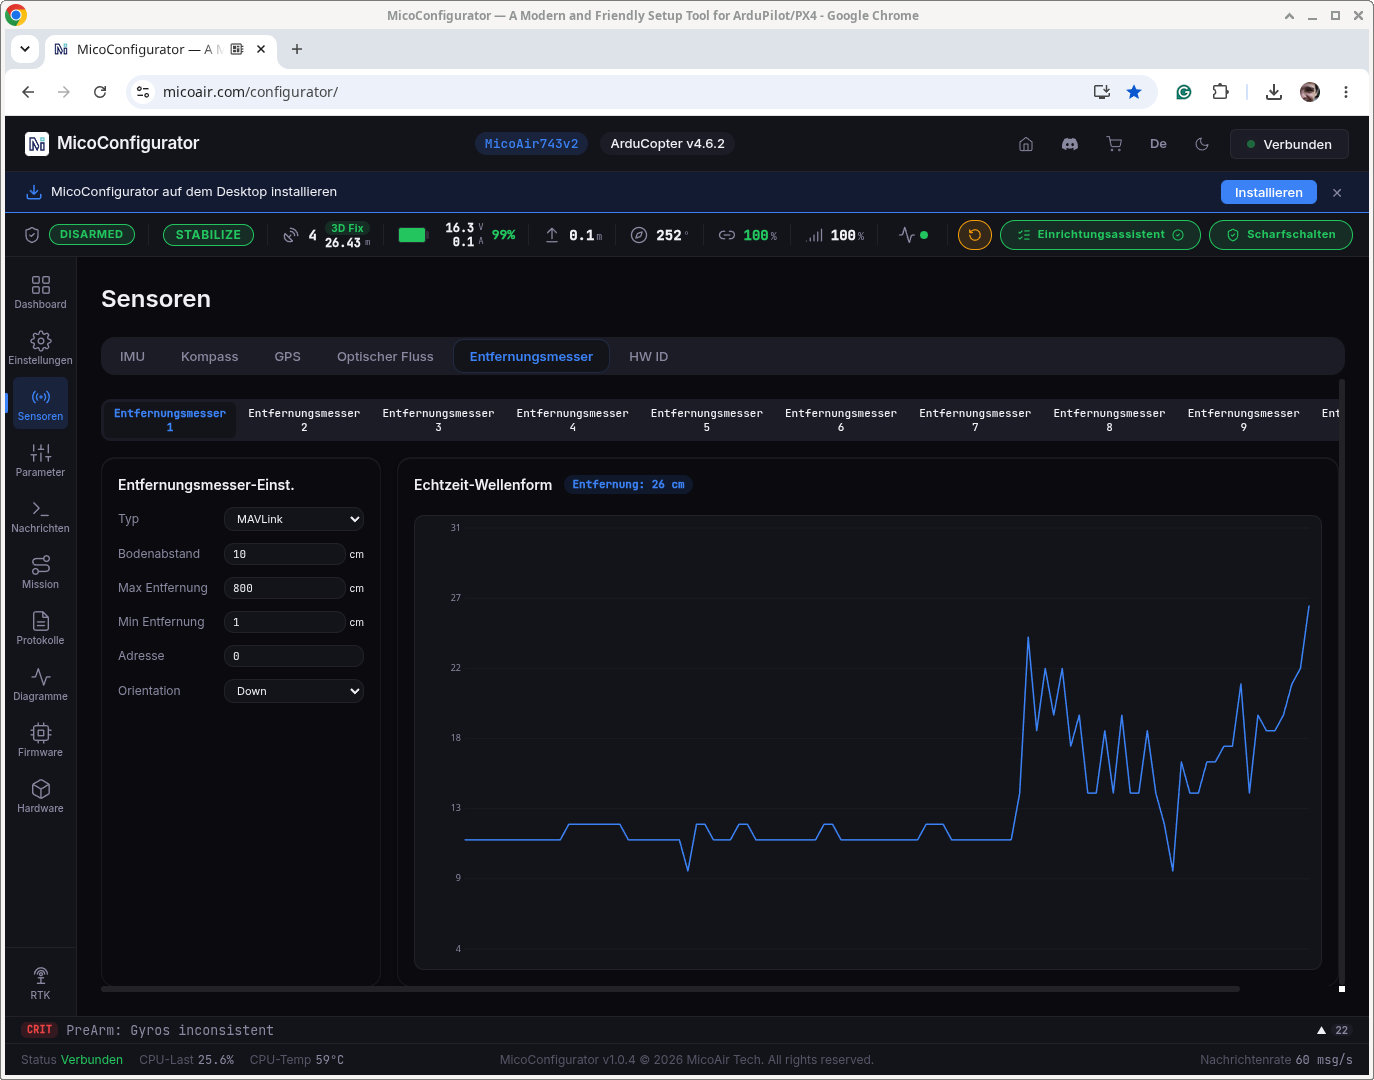
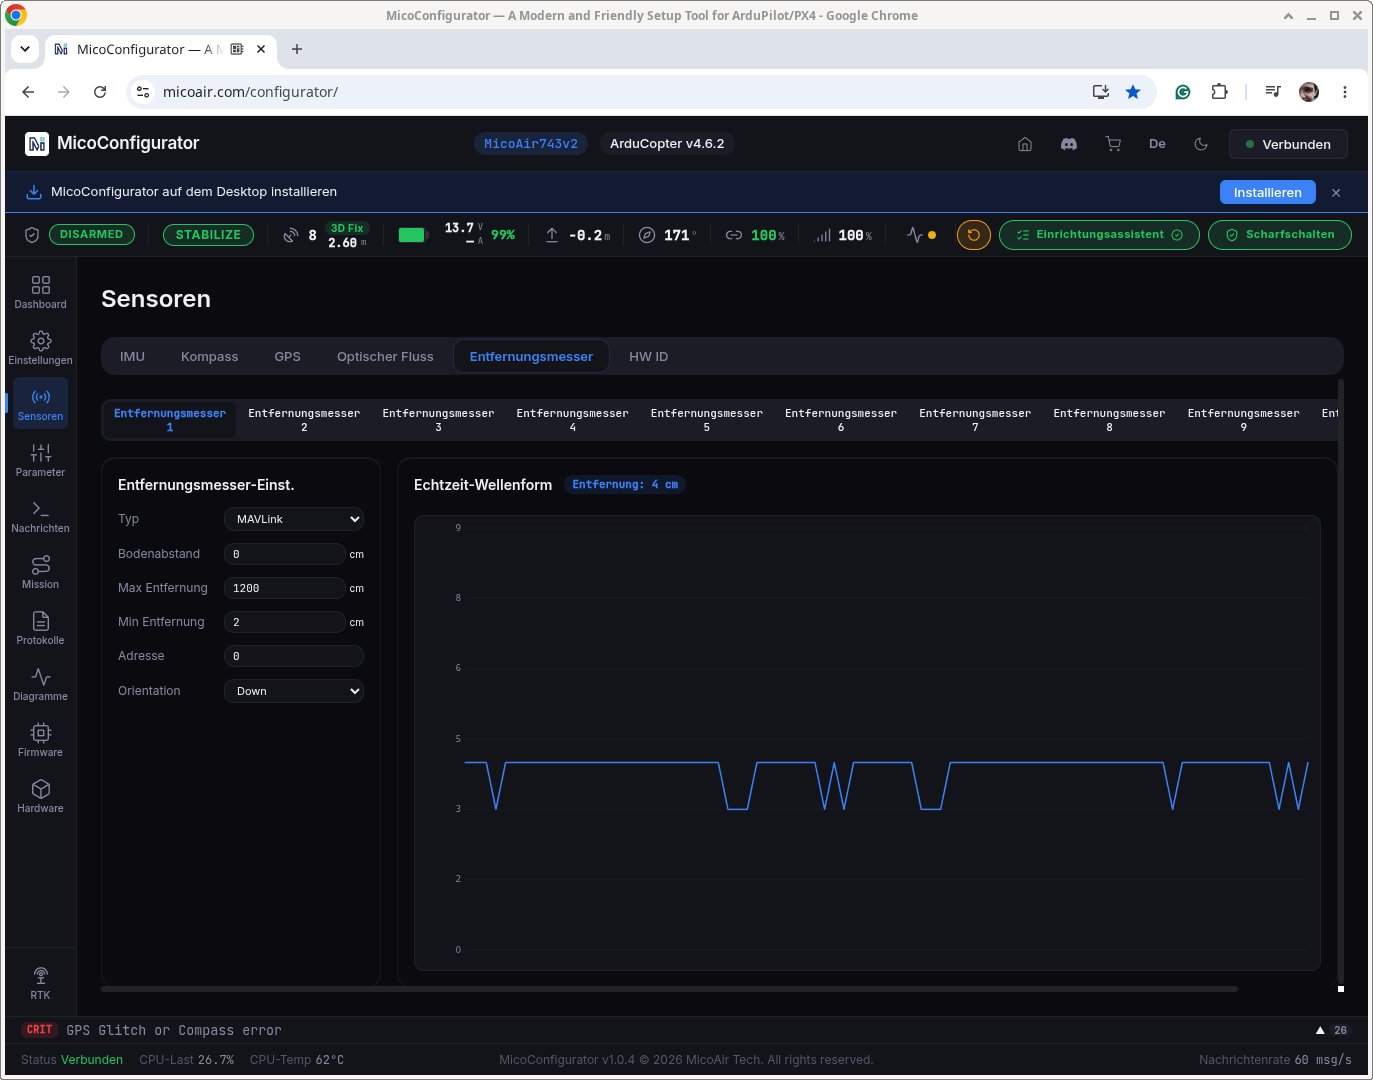
Neuer Eintrag.

diff --git a/Master_Projekt_WS2627/index.html b/Master_Projekt_WS2627/index.html
@@ -342,7 +342,7 @@ Bilder TBD
 <li><b>VTX-Antenne:</b> Foxeer Lollipop V4 Stubby 5,8 GHz RHCP SMA</li>
 <li><b>Motoren:</b> <a href="https://iflight-rc.eu/products/xing2-2809-fpv-motor">iFlight XING2 2809 1250KV</a> 4-6S (<a href="Dokumente/xing2-2809-fpv-motor-890516.png">Spezifikation</a>)</li>
 <li><b>Propeller:</b> <a href="https://www.gemfanhobby.com/6038-hurricane-pc-4-blade.html">Gemfan Hurricane 6038-4</a> 6-Zoll 4-Blatt Propeller (<a href="Dokumente/2025-Gemfan-Product-Catalog.pdf">Informationen</a>)</li>
-<li><b>GPS:</b> HGLRC M100-5883 mit Kompass (<a href="Dokumente/HGLRC_M100_5883_GPS.pdf">Handbuch</a>)</li>
+<li><b>GPS:</b> HGLRC M100-5883 mit magnetischem Kompass (<a href="Dokumente/HGLRC_M100_5883_GPS.pdf">Handbuch</a>)</li>
 <li><b>Optical Flow Sensor:</b> MicroAir MTF-01P</li> 
 </ul>
 
@@ -370,6 +370,13 @@ Bilder TBD
 <li><b>Empfänger:</b> <a href="https://radiomasterrc.com/products/xr1-nano-multi-frequency-expresslrs-receiver">Radiomaster XR1</a> Nano Multi-Frequency ExpressLRS Empfänger mit Firmware ExpressLRS 4.1.0 (<a href="Dokumente/XR1_2.pdf">Handbuch</a>)</li>
 <ul>
 <li>Binding Phrase: <tt>drone2ffm</tt></li>
+<li>Den Videosender betreffende Einstellungen in ArduPilot sind:
+<ul>
+<li><tt>SERIAL6_PROTOCOL = 2&nbsp;&nbsp; # MAVLink 2</tt></li>
+<li><tt>SERIAL6_BAUD&nbsp;&nbsp;&nbsp;&nbsp; = 460 # 460800 Baud</tt></li>
+<li><tt>SERIAL6_OPTIONS&nbsp;  = 0</tt></li>
+<li><tt>RSSI_TYPE&nbsp;&nbsp;&nbsp;&nbsp;&nbsp;&nbsp;&nbsp; = 5&nbsp;&nbsp;    # TelemetryRadioRSSI, denn der XR1 übermittelt RSSI und Link-Qualität über MAVLink-RADIO_STATUS-Nachrichten.</tt></li>
+</ul>
 </ul>
 <li><b>Kamera:</b> <a href="https://www.caddxfpv.com/products/caddxfpv-ratel-pro-analog-camera">Caddx Ratel Pro</a> 1500TVL 125FOV 4,5-16V Analog (<a href="Dokumente/Ratel_pro_manual_V1.2.pdf">Handbuch</a>)</li>
 <li><b>Videosender:</b> <a href="https://www.foxeer.com/foxeer-4-9g-6g-reaper-extreme-v3-2-5w-80ch-vtx-g-591">Foxeer Reaper Extreme V3</a> 2.5W VTX 9-36V (<a href="Dokumente/Reaper_Extreme_V3_VTX_Manual_2.5W_80CH.pdf">Handbuch</a>)</li>
@@ -390,16 +397,38 @@ Bilder TBD
 <li><b>VTX-Antenne:</b> Foxeer Lollipop V4 Stubby 5,8 GHz RHCP SMA</li>
 <li><b>Motoren:</b> <a href="https://tmotorhobby.com/goods-1199-T-MOTORHOBBY+VELOX+V2808+Drone+Motor.html">T-MOTORHOBBY VELOX V2808 1950KV</a> 4-6S</li>
 <li><b>Propeller:</b> <a href="https://www.gemfanhobby.com/6038-hurricane-pc-4-blade.html">Gemfan Hurricane 6038-4</a> 6-Zoll 4-Blatt Propeller (<a href="Dokumente/2025-Gemfan-Product-Catalog.pdf">Informationen</a>)</li>
-<li><b>GPS:</b> HGLRC M100-5883 mit Kompass (<a href="Dokumente/HGLRC_M100_5883_GPS.pdf">Handbuch</a>)</li>
+<li><b>GPS:</b> HGLRC M100-5883 mit magnetischem Kompass (<a href="Dokumente/HGLRC_M100_5883_GPS.pdf">Handbuch</a>)</li>
 <ul>
-<li>Das GPS+Kompass-Modul ist um 180 Grad gedreht eingebaut (YAW=180), damit das Anschlusskabel nach hinten zeigt.</li>
-<li>Den im Flugcontroller enthalteten Kompass verwenden wir nicht, weil er zu anfällig ist für elektromagnetische Störungen.</li>
-<li><tt>COMPASS_AUTO_ROT = 0</tt></li>
+<li>Das GPS+Kompass-Modul ist um 180 Grad gedreht eingebaut (Yaw=180), damit das Anschlusskabel nach hinten zeigt.</li>
+<li>Den im Flugcontroller enthaltenen Kompass verwenden wir nicht, weil er zu anfällig für elektromagnetische Störungen ist.</li>
+<li>Das GPS+Kompass-Modul betreffende Einstellungen in ArduPilot sind:
+<ul>
+<li><tt>COMPASS_AUTO_ROT           = 0</tt></li>
 <li><tt>COMPASS_ENABLE&nbsp;&nbsp; = 1</tt></li>
-<li><tt>COMPASS_EXTERNAL = 1  # Externer Kompass </tt></li>
-<li><tt>COMPASS_ORIENT&nbsp;&nbsp; = 4 # Yaw180</tt></li>
+<li><tt>COMPASS_EXTERNAL           = 1&nbsp;  # Externer Kompass </tt></li>
+<li><tt>COMPASS_ORIENT&nbsp;&nbsp; = 4&nbsp; # Yaw180</tt></li>
 </ul>
-<li><b>Optical Flow Sensor:</b> MicroAir MTF-01P</li> 
+</ul>
+<li><b>Optical Flow Sensor:</b> <a href="https://store.micoair.com/product/mtf-01p/">MicroAir MTF-01P</a></li> 
+<ul>
+<li>Infos zur Konfiguration und Nutzung in ArduPilot:</li>
+<ul>
+<li><a href="https://ardupilot.org/copter/docs/common-mtf-01.html">MicoAir MTF-01 Optical Flow Sensor (inkl. LiDAR Laser-Abstandssensor)</a></li> 
+<li><a href="https://www.youtube.com/watch?v=D-ooFHEtQoo">Setup Optic Flow&amp;Lidar(MTF-01) For Ardupilot&amp;PX4 To Make Drones Hover And Fly Indoors Better</a></li>
+<li><a href="https://micoair.com/docs/decoding-micolink-messages-from-mtf-01/">Decoding Micolink Messages from MTF-01</a></li>
+<li>Den Fluss- und Abstandssensor betreffende Einstellungen in ArduPilot sind:
+<ul>
+<li><tt>SERIAL4_BAUD&nbsp;&nbsp;&nbsp;&nbsp; = 115&nbsp;  # 115200 Baud</tt></li>
+<li><tt>SERIAL4_OPTIONS&nbsp; = 1024 # Don't forward mavlink to/from</tt></li>
+<li><tt>SERIAL4_PROTOCOL = 1&nbsp;&nbsp;&nbsp; # MAVLink1</tt></li>
+<li><tt>FLOW_TYPE&nbsp;&nbsp;&nbsp;&nbsp;&nbsp;&nbsp;&nbsp; = 5&nbsp;&nbsp;&nbsp; # MAVLink</tt></li>
+<li><tt>RNGFND1_GNDCLEAR = 2&nbsp;&nbsp;&nbsp;   # Distance (in cm) from the range finder to the ground
+<li><tt>RNGFND1_MAX_CM&nbsp;&nbsp;  = 1200  # Rangefinder maximum distance
+<li><tt>RNGFND1_MIN_CM&nbsp;&nbsp;  = 2&nbsp;&nbsp;&nbsp;    # Rangefinder minimum distance
+<li><tt>RNGFND1_TYPE&nbsp;&nbsp;&nbsp;&nbsp; = 10&nbsp;&nbsp; # MAVLink</tt></li>
+<li><tt>RNGFND1_ORIENT&nbsp;&nbsp; = 25&nbsp;&nbsp; # Down</tt></li>
+</ul>
+</ul>
 </ul>
 
 <a href="Bilder/Drohne_6_5_mit_Raspi_Zero_und_Raspi_AI_Camera_und_LIDAR_2026.png"><img src="Bilder/Drohne_6_5_mit_Raspi_Zero_und_Raspi_AI_Camera_und_LIDAR_2026_icon.png" alt="Drohne Gruppenbild 1" width="190" height="200" border="0"></a>
@@ -440,7 +469,7 @@ Bilder TBD
 <li><b>VTX-Antenne:</b> Foxeer Lollipop V4 Stubby 5,8 GHz RHCP SMA</li>
 <li><b>Motoren:</b> <a href="https://www.rotorama.de/product/iflight-xing-2806-5-1800kv">iFlight XING2 2806.5 1800KV</a> 4-6S (<a href="Dokumente/XING-2806.5-1800KV.png">Spezifikation</a>)</li>
 <li><b>Propeller:</b> <a href="https://www.gemfanhobby.com/6038-hurricane-pc-4-blade.html">Gemfan Hurricane 6038-4</a> 6-Zoll 4-Blatt Propeller (<a href="Dokumente/2025-Gemfan-Product-Catalog.pdf">Informationen</a>)</li>
-<li><b>GPS:</b> HGLRC M100-5883 mit Kompass (<a href="Dokumente/HGLRC_M100_5883_GPS.pdf">Handbuch</a>)</li>
+<li><b>GPS:</b> HGLRC M100-5883 mit magnetischem Kompass (<a href="Dokumente/HGLRC_M100_5883_GPS.pdf">Handbuch</a>)</li>
 <li><b>Optical Flow Sensor:</b> MicroAir MTF-01P</li> 
 </ul>
 
